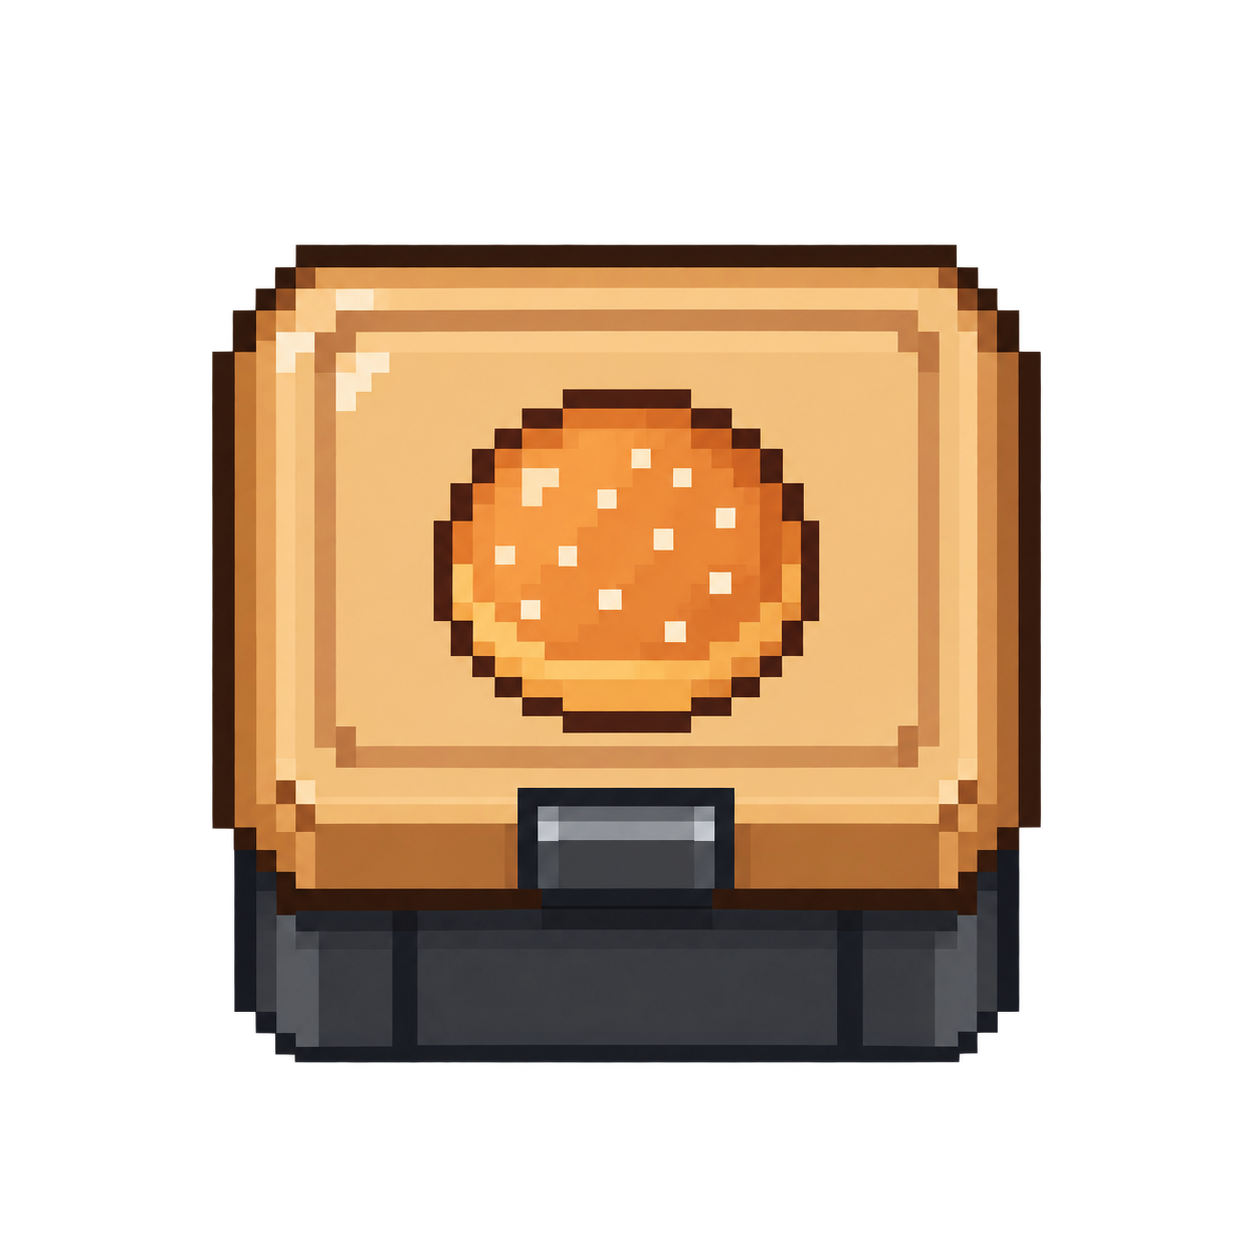
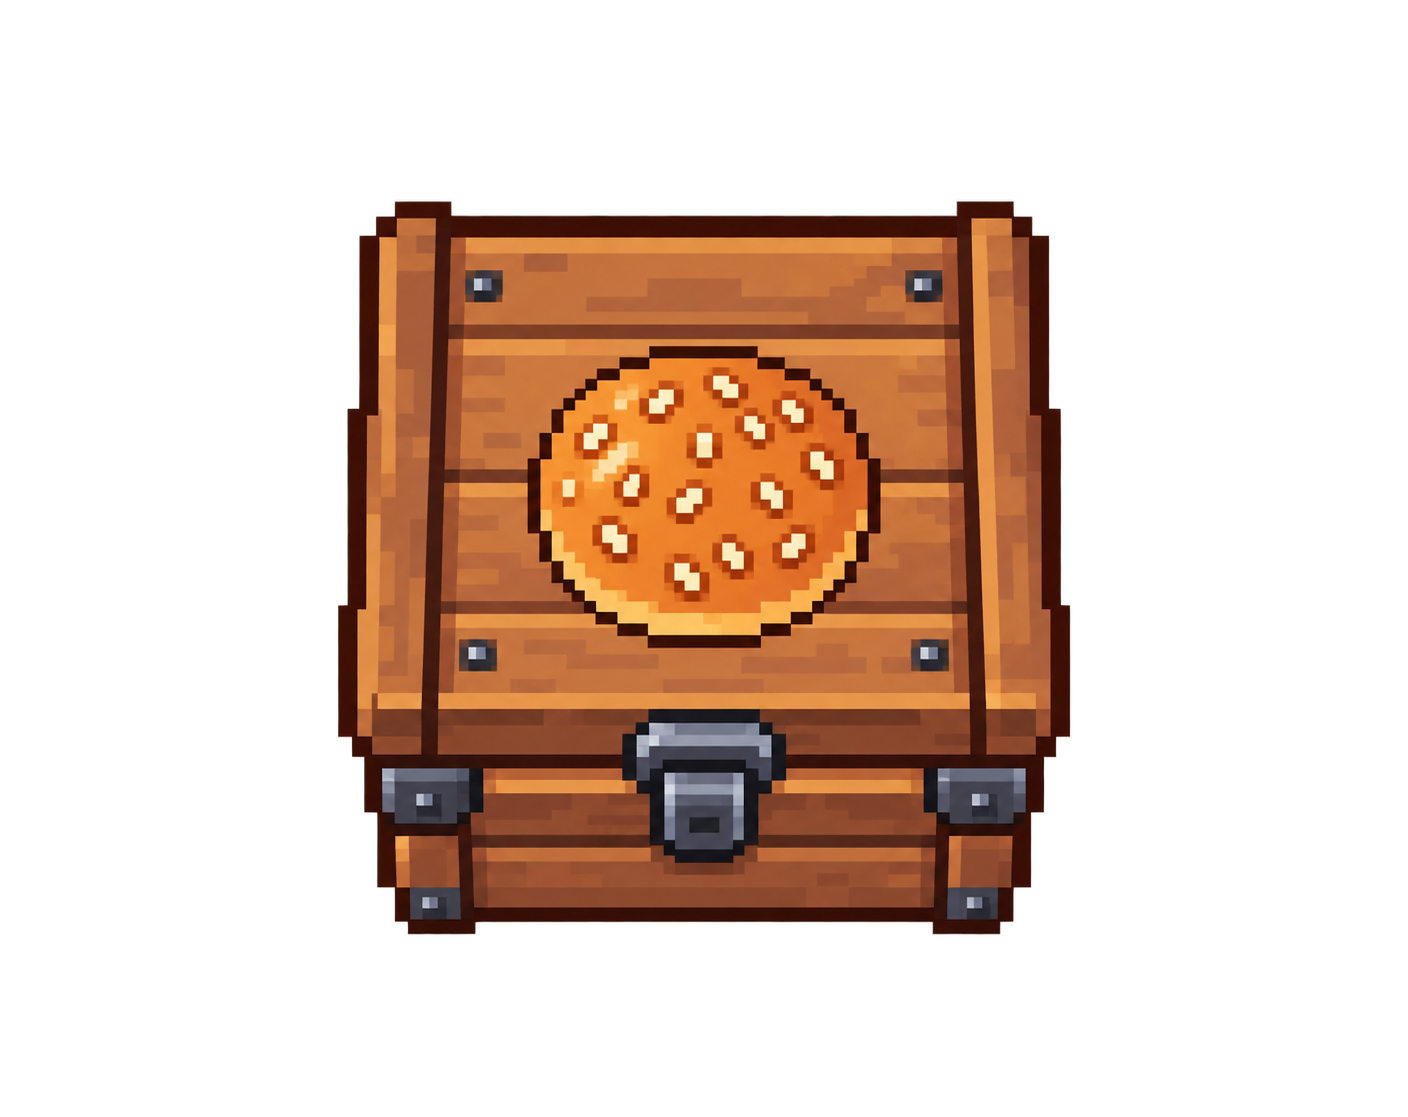
Basic animations uploaded

diff --git a/frontend/game.js b/frontend/game.js
@@ -35,7 +35,7 @@ const stations = {
   bun: { column: 10, row: 1, ...gridToPixel(10, 1), label: "Bun Chest" }
 };
 const bunChestSprite = {
-  open: "/static/assets/bun/bun_chest_open.png",
+  open: "/static/assets/bun/bun_chest_opened.png",
   closed: "/static/assets/bun/bun_chest_closed.png"
 };
 
